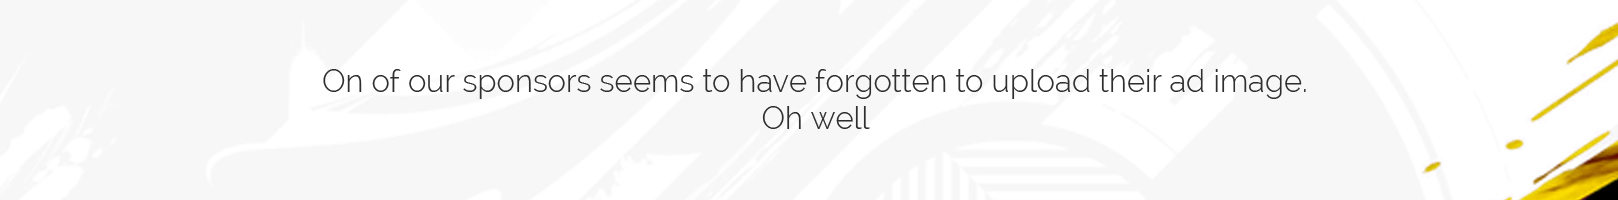
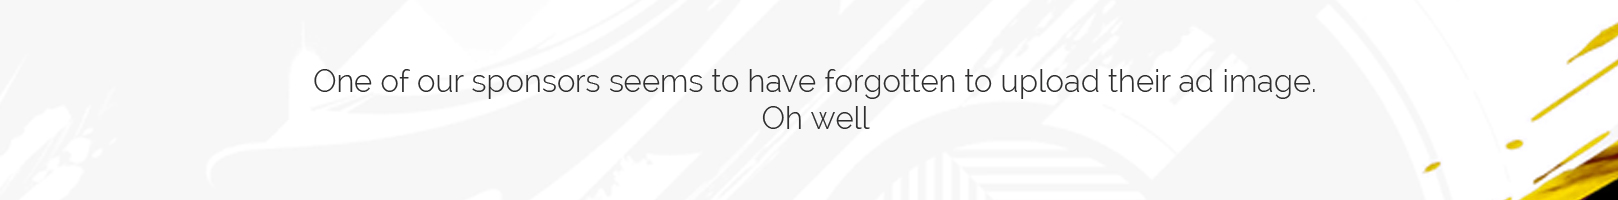
Ad Fallbacks, Chip Styles, StarHeads expanded/collapsed views

Changed region(s): [[0.1854, 0.33, 0.8035, 0.51]]

diff --git a/src/app/site-body/blog/faces-included-panel/faces.included.panel.component.html b/src/app/site-body/blog/faces-included-panel/faces.included.panel.component.html
@@ -6,19 +6,34 @@
         <li class="faces-included-list-item" *ngFor="let face of facesIncludedList" [innerHTML]="face"></li>
     </ul>
     <ul *ngIf="isNewJSONVersion" class="starheads-included-list">
-        <div class="starheads-included-list-row" [ngClass]="{'hide-list-row': faceIndex % numberOfStarheadsPerRow != 0}" *ngFor="let face of facesIncludedList; let faceIndex = index">
+        <div class="starheads-included-list-row" [ngClass]="{'hide-list-row': faceIndex % numberOfStarheadsPerRow != 0}"
+            *ngFor="let face of facesIncludedList; let faceIndex = index">
             <ng-container *ngIf="faceIndex % numberOfStarheadsPerRow == 0">
-                <li class="starheads-included-list-item" *ngFor="let num of [].constructor(numberOfStarheadsPerRow); let columnIndex = index">
+                <li class="starheads-included-list-item"
+                    *ngFor="let num of [].constructor(numberOfStarheadsPerRow); let columnIndex = index">
                     <div class="player-info-container">
                         <div class="player-main-info">
-                            <span class="player-name" [innerHTML]="facesIncludedList[faceIndex + columnIndex].playerName"></span>
-                            <span class="nation-flag {{facesIncludedList[faceIndex + columnIndex].playerNationality}}" [matTooltip]="facesIncludedList[faceIndex + columnIndex].playerNationality" matTooltipPosition="above"></span>
+                            <span class="player-name"
+                                [innerHTML]="facesIncludedList[faceIndex + columnIndex].playerName"></span>
+                            <span class="nation-flag {{facesIncludedList[faceIndex + columnIndex].playerNationality}}"
+                                [matTooltip]="facesIncludedList[faceIndex + columnIndex].playerNationality"
+                                matTooltipPosition="above"></span>
                         </div>
-                        <div class="player-club" [innerHTML]="facesIncludedList[faceIndex + columnIndex] | clubInfo : 'clubName'"></div>
-                        <div class="player-league" [innerHTML]="facesIncludedList[faceIndex + columnIndex] | clubInfo : 'leagueName'"></div>
+                        <div class="player-club"
+                            [innerHTML]="facesIncludedList[faceIndex + columnIndex] | clubInfo : 'clubName'"></div>
+                        <div class="player-league"
+                            [innerHTML]="facesIncludedList[faceIndex + columnIndex] | clubInfo : 'leagueName'"></div>
                     </div>
                 </li>
             </ng-container>
         </div>
+        <a *ngIf="showExpandLink" class="button-link secondary-button-link link-icon-right overlay-button-link expand-link" href="javascript: void(0)"(click)="setExpandedView()">
+            View <strong>{{numberOfStarHeads - (this.numberOfStarheadsPerRow * this.numberOfRowsDisplayed)}}</strong> more <i class="fas fa-angle-down"></i>
+        </a>
     </ul>
+    <div class="collapse-link-container" align="end">
+            <a *ngIf="showCollapseLink" class="button-link secondary-button-link link-icon-right" href="javascript: void(0)"(click)="setCollapsedView(true)">
+                View fewer <i class="fas fa-angle-up"></i>
+            </a>
+    </div>
 </div>

diff --git a/src/app/site-body/blog/faces-included-panel/faces.included.panel.component.ts b/src/app/site-body/blog/faces-included-panel/faces.included.panel.component.ts
@@ -1,4 +1,4 @@
-import { Component, Input, HostListener } from '@angular/core';
+import { Component, Input, HostListener, ElementRef } from '@angular/core';
 import { UtilitiesService } from '../../../services/utilities.service';
 
 @Component({
@@ -10,13 +10,23 @@ import { UtilitiesService } from '../../../services/utilities.service';
 export class FacesIncludedPanelComponent {
 
 	constructor(
-		private service: UtilitiesService
+		private service: UtilitiesService,
+		private elementRef: ElementRef
 	) { }
 
 	@Input() facesIncludedList: Array<any>;
 
 	isNewJSONVersion: boolean = false;
+	numberOfStarHeads: number = 0;
+	totalNumberOfRows: number = 0;
+	numberOfRowsDisplayed: number = 0;
 	numberOfStarheadsPerRow: number = 3;
+
+	showExpandLink: boolean = false;
+	showCollapseLink: boolean = false;
+
+	collapsedHeight: number = 0;
+	totalHeight: number = 0;
 
 	isDesktopViewPort: boolean = this.service.isDesktopViewPort();
 	isTabViewPort: boolean = this.service.isTabViewPort();
@@ -24,17 +34,60 @@ export class FacesIncludedPanelComponent {
 
 	ngOnInit() {
 		this.isNewJSONVersion = (typeof this.facesIncludedList[0] != 'string');
+		this.numberOfStarHeads = this.facesIncludedList.length;
 		this.setNumberOfStarHeadsPerRow();
 	}
-	
+
+	ngAfterViewInit() {
+		this.setCollapsedView();
+	}
+
+	setCollapsedView(buttonClick?: boolean) {
+		let starHeadsList = this.elementRef.nativeElement.querySelector('.starheads-included-list');
+		let scrollPosition = starHeadsList.offsetTop;
+		if (this.numberOfStarHeads > (this.numberOfStarheadsPerRow * this.numberOfRowsDisplayed)) {
+			this.totalNumberOfRows = Math.floor(this.numberOfStarHeads / this.numberOfStarheadsPerRow);
+			this.showExpandLink = true;
+			this.showCollapseLink = false;
+			let starHeadInfoRows: Array<any> = this.elementRef.nativeElement.querySelectorAll('.starheads-included-list-row');
+			let rowCounter = 0;
+			this.collapsedHeight = 0;
+			this.totalHeight = 0;
+			for (let row of starHeadInfoRows) {
+				if (!row.classList.contains('hide-list-row')) {
+					rowCounter++;
+					this.totalHeight += row.clientHeight;
+					if (rowCounter <= this.numberOfRowsDisplayed) {
+						this.collapsedHeight += row.clientHeight;
+					}
+				};
+				if (rowCounter == this.numberOfRowsDisplayed) {
+					starHeadsList.style.height = (10 + this.collapsedHeight + (this.numberOfRowsDisplayed - 1) * 15) + 'px';
+				}
+			}
+			if (buttonClick) {
+				window.scroll({ top: scrollPosition, left: 0, behavior: 'smooth' });
+			}
+		}
+	}
+
+	setExpandedView() {
+		let starHeadsList = this.elementRef.nativeElement.querySelector('.starheads-included-list');
+		this.showExpandLink = false;
+		this.showCollapseLink = true;
+		starHeadsList.style.height = (10 + this.totalHeight + (this.totalNumberOfRows - 1) * 15) + 'px';
+	}
 
 	setNumberOfStarHeadsPerRow() {
 		if (this.isMobileViewPort) {
 			this.numberOfStarheadsPerRow = 1;
+			this.numberOfRowsDisplayed = 8;
 		} else if (this.isTabViewPort) {
 			this.numberOfStarheadsPerRow = 2;
+			this.numberOfRowsDisplayed = 4;
 		} else {
 			this.numberOfStarheadsPerRow = 3;
+			this.numberOfRowsDisplayed = 3;
 		}
 	}
 

diff --git a/src/app/site-body/shared/ad-placeholder/ad.placeholder.ts b/src/app/site-body/shared/ad-placeholder/ad.placeholder.ts
@@ -18,6 +18,7 @@ export class AdPlaceholderComponent {
 
 	adBlockerUsed: boolean = false;
 	imageLoadCheckInterval: any;
+	intervalCounter: number = 0;
 
 	adZoneMap: Object = {
 		1: "1443",
@@ -36,18 +37,24 @@ export class AdPlaceholderComponent {
 	}
 
 	checkForFailedImageLoads() {
-		this.imageLoadCheckInterval = setTimeout(() => {
+		this.imageLoadCheckInterval = setInterval(() => {
+			this.intervalCounter++;
 			let imagesArray = this.elementRef.nativeElement.querySelectorAll('img');
 			let insArray = this.elementRef.nativeElement.querySelectorAll('ins');
 			for (let image of imagesArray) {
-				image.addEventListener('error', (error) => {
-					image.src = "https://raw.githubusercontent.com/krisaju95/ufifamods/master/media/images/aderror/72890.jpg";
+				clearInterval(this.imageLoadCheckInterval);
+				image.addEventListener('error', () => {
+					image.src = "https://raw.githubusercontent.com/krisaju95/ufifamods/master/media/images/aderror/" + (this.adZone == 3 ? '300250' : '72890') + ".jpg";
 				});
 			}
 			for (let ins of insArray) {
 				ins.style.display = "inline-block";
+				clearInterval(this.imageLoadCheckInterval);
 			}
-		}, 500);
+			if(this.intervalCounter > 500) {
+				clearInterval(this.imageLoadCheckInterval);
+			}
+		}, 10);
 	}
 
 	loadAd(): Promise<any> {
@@ -69,4 +76,8 @@ export class AdPlaceholderComponent {
 		});
 		return scriptPromise;
 	};
+
+	ngOnDestroy() {
+		clearInterval(this.imageLoadCheckInterval);
+	}
 }

diff --git a/src/app/site-body/blog/single-post/regular.post.component.ts b/src/app/site-body/blog/single-post/regular.post.component.ts
@@ -28,8 +28,6 @@ export class RegularBlogPostComponent {
 	fileURL: string = "";
 	postData: Object;
 	postMainTextArray: Array<string> = [];
-	postMainText: any;
-	postMainText2: any;
 	contributorsList: Array<string> = [];
 	facesIncludedList: Array<string> = [];
 	screenshotsList: Array<string> = [];
@@ -69,7 +67,6 @@ export class RegularBlogPostComponent {
 						this.facesIncludedList = this.postData['faces-included-list'] || [];
 						this.screenshotsList = this.postData['screenshots-list'] || [];
 						this.showModDisclaimer = (this.postData['show-mod-disclaimer'] == true || this.postData['show-mod-disclaimer'] == 'true')
-						this.processMainPostContent();
 						this.getPostCategories();
 						window.scroll(0, 0);
 						this.service.setPageTitle(this.postData['post-title'], false);
@@ -83,17 +80,6 @@ export class RegularBlogPostComponent {
 					window.location.href = "/404"
 				}
 			)
-	}
-
-	processMainPostContent() {
-		if (this.postMainTextArray.length > 4) {
-			this.postMainText = this.postMainTextArray.slice(0, Math.floor(this.postMainTextArray.length / 2));
-			this.postMainText2 = this.postMainTextArray.slice(Math.floor(this.postMainTextArray.length / 2), this.postMainTextArray.length);
-		}
-		else {
-			this.postMainText = this.postMainTextArray;
-			this.postMainText2 = [];
-		}
 	}
 
 	getPostURL() {

diff --git a/src/app/site-body/blog/single-post/regular.post.component.scss b/src/app/site-body/blog/single-post/regular.post.component.scss
@@ -4,6 +4,10 @@
     .blog-post-wrapper {
         min-height: 500px;
 
+        .blog-post-width {
+            max-width: 750px;
+        }
+
         .blog-post-header-section {
             background: $site-colour-second-primary url("https://i.imgur.com/JU50qnR.jpg") center left no-repeat;
             background-size: cover;
@@ -44,7 +48,7 @@
             display: inline-table;
             width: calc(100% - 80px);
             margin: 30px 40px;
-            margin-top: -130px;
+            margin-top: -150px;
             transform: translateZ(1px);
         
             .blog-post-content, .blog-post-sidebar, .blog-post-right-spacer {
@@ -70,7 +74,7 @@
                 }
         
                 .blog-post-header-image {
-                    height: 400px;
+                    height: 420px;
                     width: 100%;
                     background-position: center;
                     background-size: cover;
@@ -123,7 +127,7 @@
                 padding-left: 30px;
                 width: 330px;
                 vertical-align: top;
-                padding-top: 130px;
+                padding-top: 150px;
         
                 @media only screen and (max-width: 1280px) {
                     padding-left: 20px;

diff --git a/src/app/site-body/blog/single-post/regular.post.component.html b/src/app/site-body/blog/single-post/regular.post.component.html
@@ -23,11 +23,11 @@
                     </div>
                     <div class="blog-post-intro-text" [innerHTML]="postData['post-intro-text']"></div>
                     <div class="blog-post-main-text">
-                        <div *ngFor="let para of postMainText" class="blog-post-para" [innerHTML]="para"></div>
+                        <div *ngFor="let para of (postMainTextArray | slice : 0 : 4)" class="blog-post-para" [innerHTML]="para"></div>
                     </div>
                     <site-ad-placeholder class="blog-post-ad-placeholder" [removeMargins]="true" [adZone]="1"></site-ad-placeholder>
                     <div class="blog-post-main-text">
-                        <div *ngFor="let para of postMainText2" class="blog-post-para" [innerHTML]="para"></div>
+                        <div *ngFor="let para of (postMainTextArray | slice : 4)" class="blog-post-para" [innerHTML]="para"></div>
                     </div>
                     <contributors-panel [contributorsList]="contributorsList"></contributors-panel>
                     <faces-included-panel [facesIncludedList]="facesIncludedList"></faces-included-panel>

diff --git a/src/app/site-body/blog/faces-included-panel/faces.included.panel.component.scss b/src/app/site-body/blog/faces-included-panel/faces.included.panel.component.scss
@@ -10,7 +10,10 @@
 
 .starheads-included-list {
     padding: 0;
+    overflow: hidden;
     list-style: none;
+    position: relative;
+    transition: height ease 500ms;
 
     .starheads-included-list-row {
         display: inline-table;
@@ -56,6 +59,11 @@
                 }
             }
         }
+    }
+
+    .expand-link {
+        right: 10px;
+        bottom: 20px;
     }
 }
 

diff --git a/src/app/site-body/home/home.component.ts b/src/app/site-body/home/home.component.ts
@@ -29,10 +29,10 @@ export class HomeComponent {
 			.subscribe((data) => {
 				this.setBlogPostsArray(data);
 				let timeDiff = new Date().getTime() - startTime;
-				if (timeDiff < 2000) {
+				if (timeDiff < 1000) {
 					setTimeout(() => {
 						this.responseLoading = false;
-					}, 2000 - timeDiff);
+					}, 1000 - timeDiff);
 				}
 				else {
 					this.responseLoading = false;

diff --git a/src/wwt-mat-theme.css b/src/wwt-mat-theme.css
@@ -1310,8 +1310,10 @@ textarea.cdk-textarea-autosize-measuring {
 }
 
 .mat-chip.mat-standard-chip {
-    background-color: #305BA5;
-    color: #F5F5F5;
+    background-color: #F5F5F5;
+    color: #305BA5;
+    border: 1px solid #305BA5;
+    font-weight: 600;
 }
 
 .mat-chip.mat-standard-chip .mat-chip-remove {

diff --git a/src/styles.scss b/src/styles.scss
@@ -7,6 +7,7 @@ body {
     font-family: Raleway, "Segoe UI", Roboto, "Helvetica Neue", Arial, sans-serif;
     margin: 0;
     background: #F1F3F4;
+    scroll-behavior: smooth;
 
     a, input, .post-card, textarea, button {
         outline: 0;
